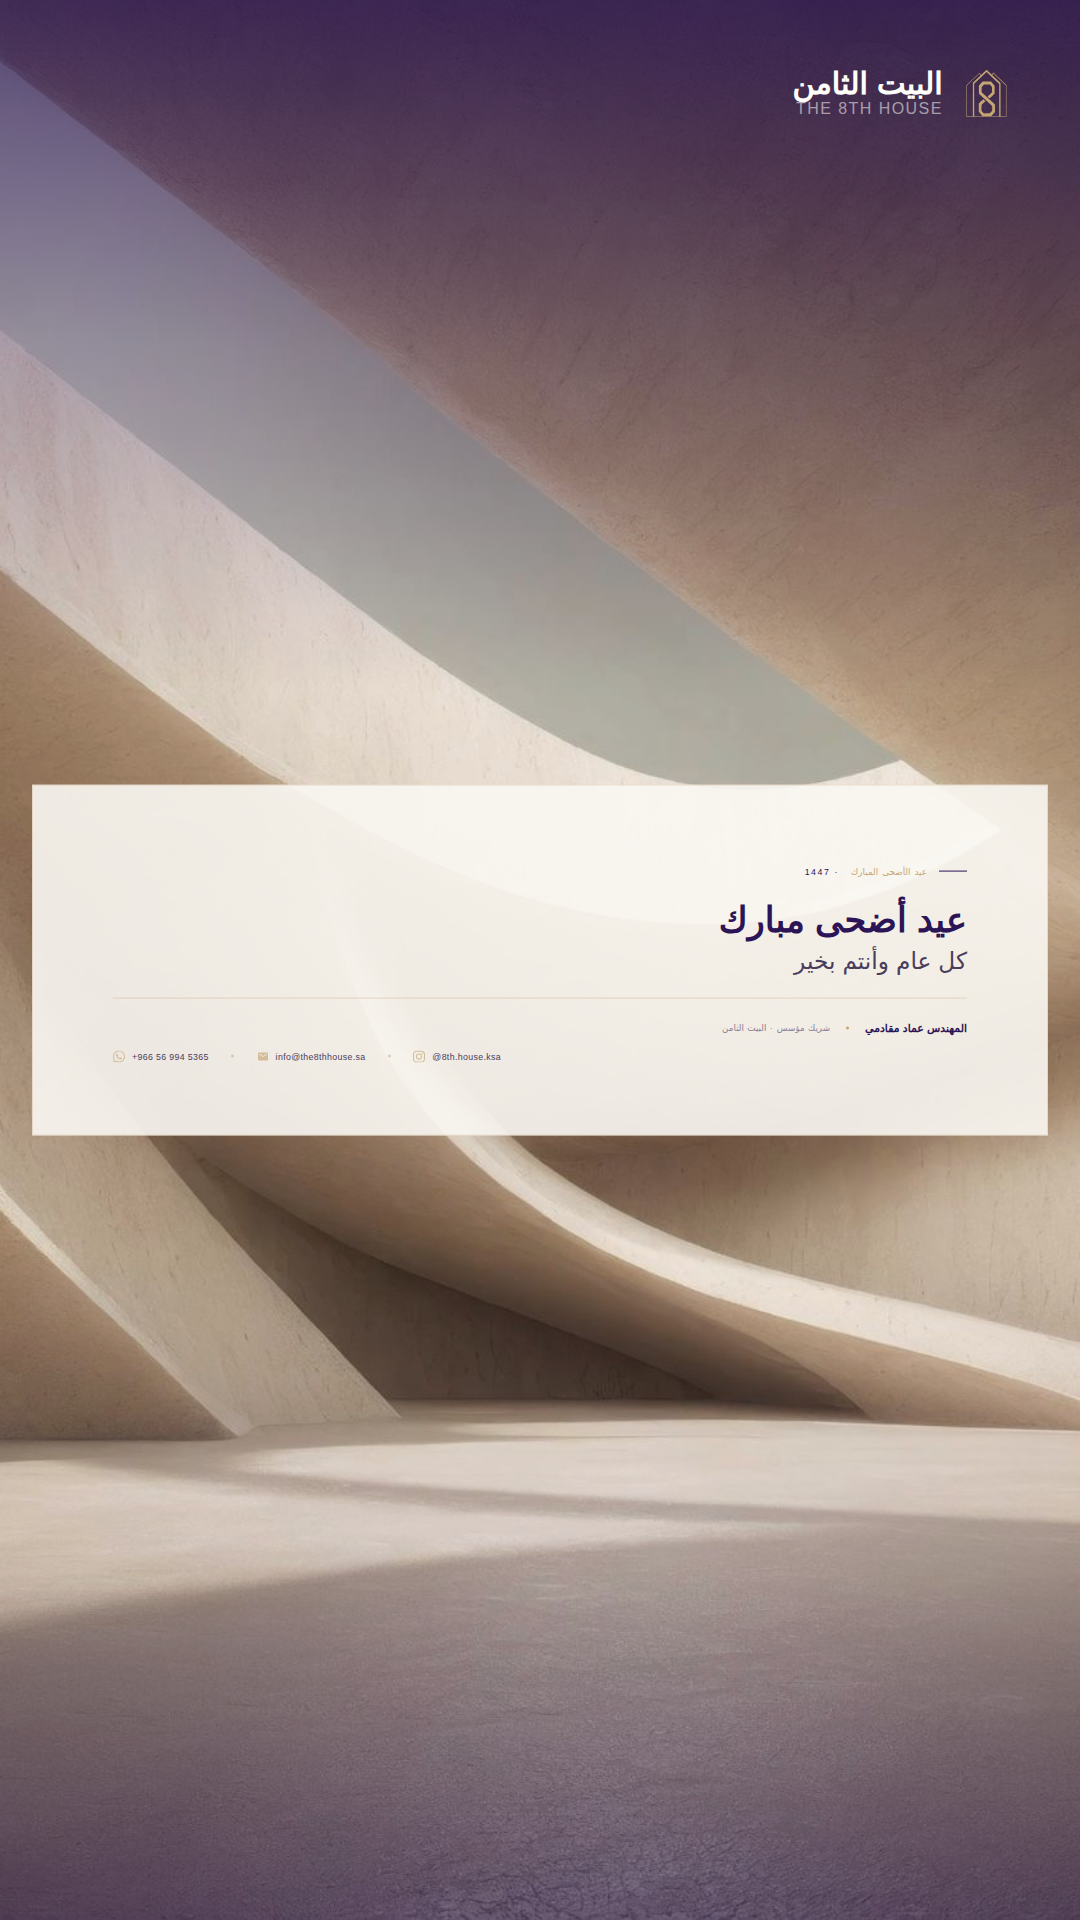
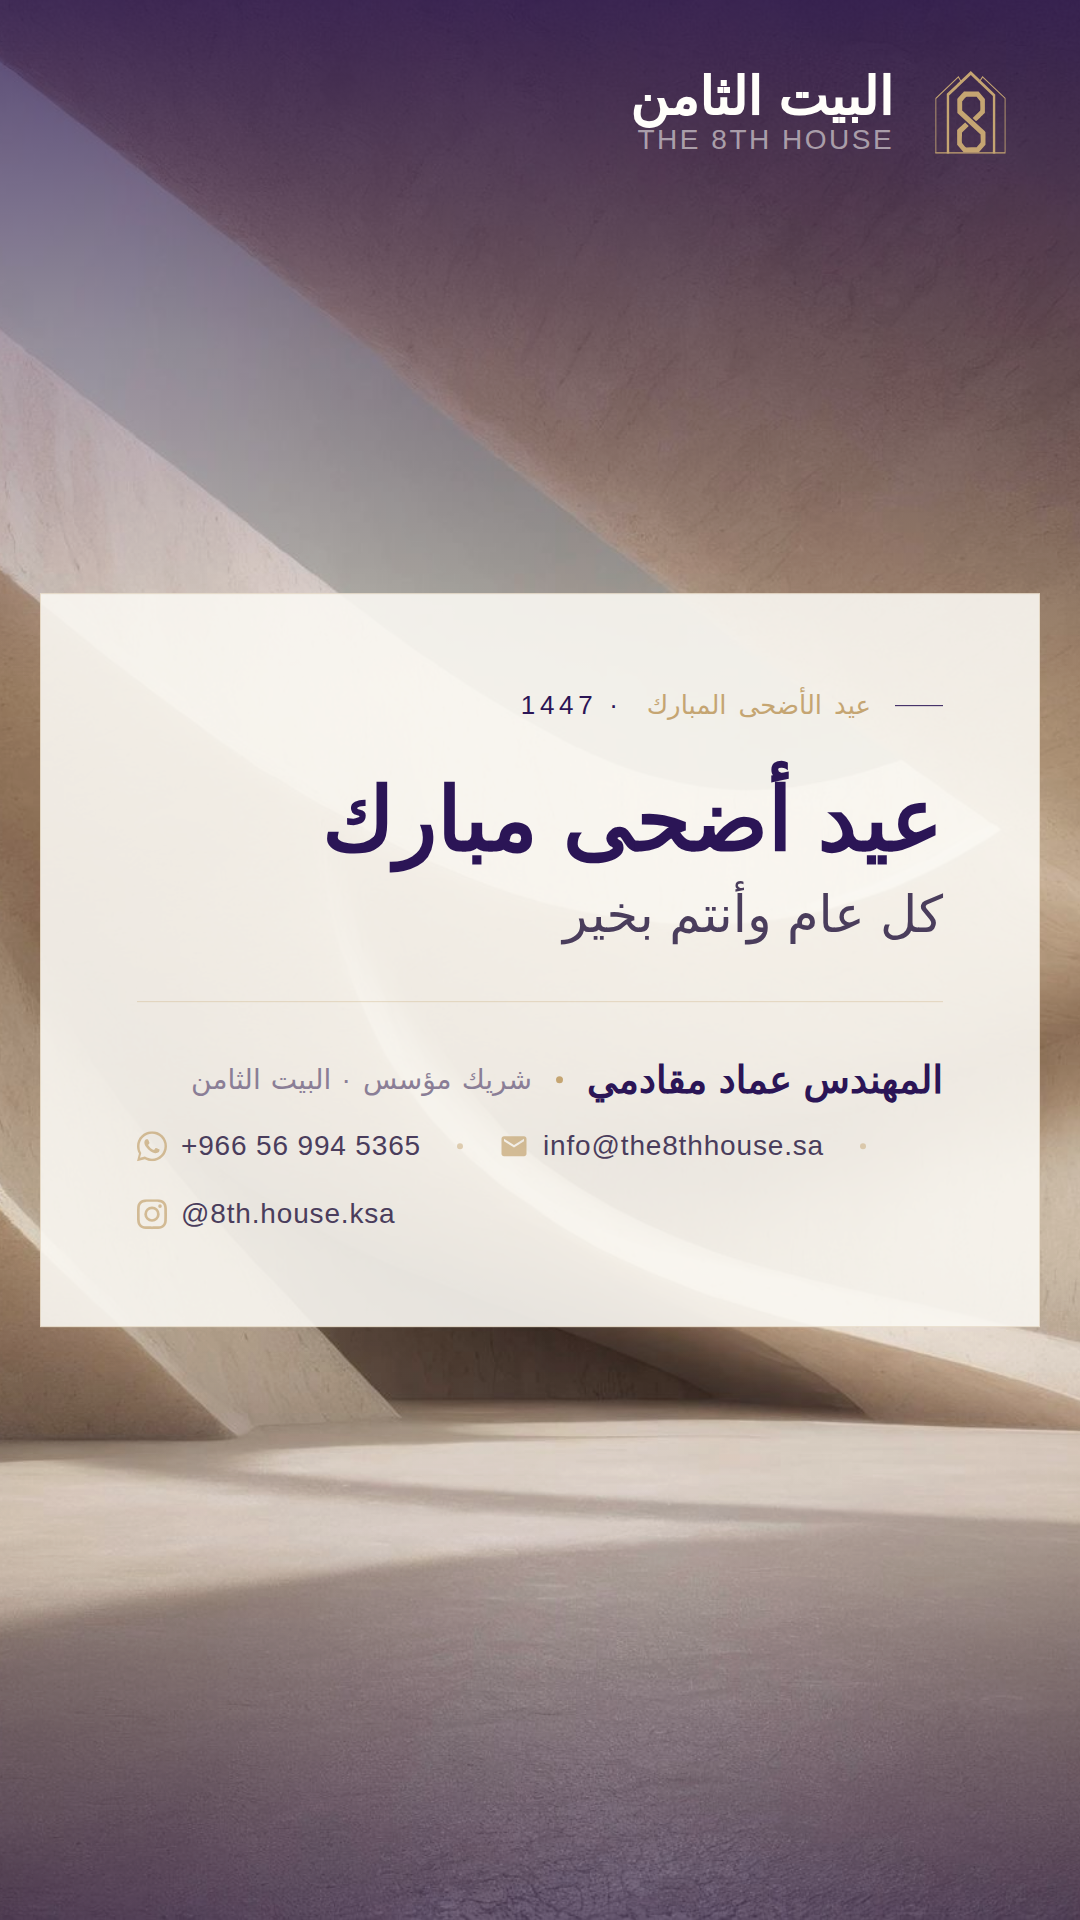
Scale up all card text sizes for 1080px image quality
Font sizes increased 4x (px-based), larger panel padding, bigger logo
scale(3.5) — readable on phone when saved as PNG.

https://claude.ai/code/session_01CSSTbXjfUtb6qJ2tW8hjCv

Changed region(s): [[0.0306, 0.2812, 0.9778, 0.7188], [0.7333, 0.0312, 0.9472, 0.0938], [0.5806, 0.0312, 0.7028, 0.0938]]

diff --git a/eid-cards.html b/eid-cards.html
@@ -113,12 +113,12 @@
       direction: rtl;
     }
 
-    /* scale(2) from top-right preserves the corner anchor */
+    /* scale(3.5) — same nav proportions, large enough for a 1080px card */
     .card__nav .nav__logo {
       display: flex;
       align-items: center;
       gap: .65rem;
-      transform: scale(2);
+      transform: scale(3.5);
       transform-origin: top right;
     }
 
@@ -133,15 +133,15 @@
     .card--en .card__nav { right: auto; left: 72px; direction: ltr; }
     .card--en .card__nav .nav__logo { transform-origin: top left; }
 
-    /* ── body (centered panel) ── */
+    /* ── body (centered panel) — sized for 1080px card ── */
     .card__body {
       position: absolute;
       top: 50%;
       transform: translateY(-50%);
-      left: 32px;
-      right: 32px;
+      left: 40px;
+      right: 40px;
       z-index: 2;
-      padding: 72px 80px;
+      padding: 96px 96px;
       background: rgba(250,247,242,0.90);
       border: 1px solid rgba(197,165,114,0.28);
       direction: rtl;
@@ -151,16 +151,16 @@
     .card__lbl {
       display: inline-flex;
       align-items: center;
-      gap: .75rem;
-      font-size: 0.55rem;
+      gap: 24px;
+      font-size: 26px;
       letter-spacing: .18em;
       text-transform: uppercase;
       color: var(--purple-royal);
-      margin-bottom: 1.4rem;
+      margin-bottom: 48px;
     }
     .card__lbl-rule {
       display: inline-block;
-      width: 1.75rem;
+      width: 48px;
       height: 1px;
       background: var(--purple-royal);
     }
@@ -168,15 +168,15 @@
 
     /* main title */
     .card__title {
-      font-size: 2.2rem;
+      font-size: 88px;
       font-weight: 300;
-      line-height: 1.2;
+      line-height: 1.15;
       letter-spacing: .01em;
       color: var(--text-primary);
-      margin-bottom: 1.2rem;
+      margin-bottom: 0;
       display: flex;
       flex-direction: column;
-      gap: .2em;
+      gap: .18em;
     }
     .card__title-main {
       color: var(--purple-royal);
@@ -185,7 +185,7 @@
     }
     .card__title-rest {
       color: var(--text-secondary);
-      font-size: .66em;
+      font-size: .58em;
       font-weight: 300;
       letter-spacing: .025em;
     }
@@ -195,35 +195,35 @@
       width: 100%;
       height: 1px;
       background: rgba(197,165,114,.35);
-      margin: 1.4rem 0;
+      margin: 56px 0;
     }
 
     /* sender row */
     .card__sender {
       display: flex;
       align-items: center;
-      gap: 1rem;
+      gap: 24px;
       flex-wrap: wrap;
-      margin-bottom: 1rem;
+      margin-bottom: 28px;
     }
-    .card__sender-name  { font-size: 0.68rem; font-weight: 700; color: var(--purple-royal); letter-spacing: .03em; }
-    .card__sender-dot   { width: 3px; height: 3px; border-radius: 50%; background: var(--gold); flex-shrink: 0; }
-    .card__sender-title { font-size: 0.55rem; font-weight: 300; color: var(--text-muted); letter-spacing: .1em; }
+    .card__sender-name  { font-size: 38px; font-weight: 700; color: var(--purple-royal); letter-spacing: .03em; }
+    .card__sender-dot   { width: 7px; height: 7px; border-radius: 50%; background: var(--gold); flex-shrink: 0; }
+    .card__sender-title { font-size: 28px; font-weight: 300; color: var(--text-muted); letter-spacing: .08em; }
 
     /* contact row */
-    .card__contact { display: flex; align-items: center; gap: 1.4rem; direction: ltr; flex-wrap: wrap; }
+    .card__contact { display: flex; align-items: center; gap: 36px; direction: ltr; flex-wrap: wrap; }
     .card__ci {
       display: flex;
       align-items: center;
-      gap: 7px;
-      font-size: 0.55rem;
+      gap: 14px;
+      font-size: 28px;
       font-weight: 300;
       color: var(--text-secondary);
-      letter-spacing: .04em;
+      letter-spacing: .03em;
       white-space: nowrap;
     }
-    .card__ci svg { width: 12px; height: 12px; opacity: .65; flex-shrink: 0; }
-    .card__csep   { width: 3px; height: 3px; border-radius: 50%; background: rgba(197,165,114,.5); }
+    .card__ci svg { width: 30px; height: 30px; opacity: .7; flex-shrink: 0; }
+    .card__csep   { width: 6px; height: 6px; border-radius: 50%; background: rgba(197,165,114,.5); }
 
     /* ══════════════════════════════════════════════
        ENGLISH variant
@@ -250,7 +250,7 @@
     /* ══════════════════════════════════════════════
        MIXED variant
     ══════════════════════════════════════════════ */
-    .card--mixed .card__title { font-size: 2rem; }
+    .card--mixed .card__title { font-size: 76px; }
     .card__title-en-sub {
       font-size: .48em;
       font-weight: 300;
